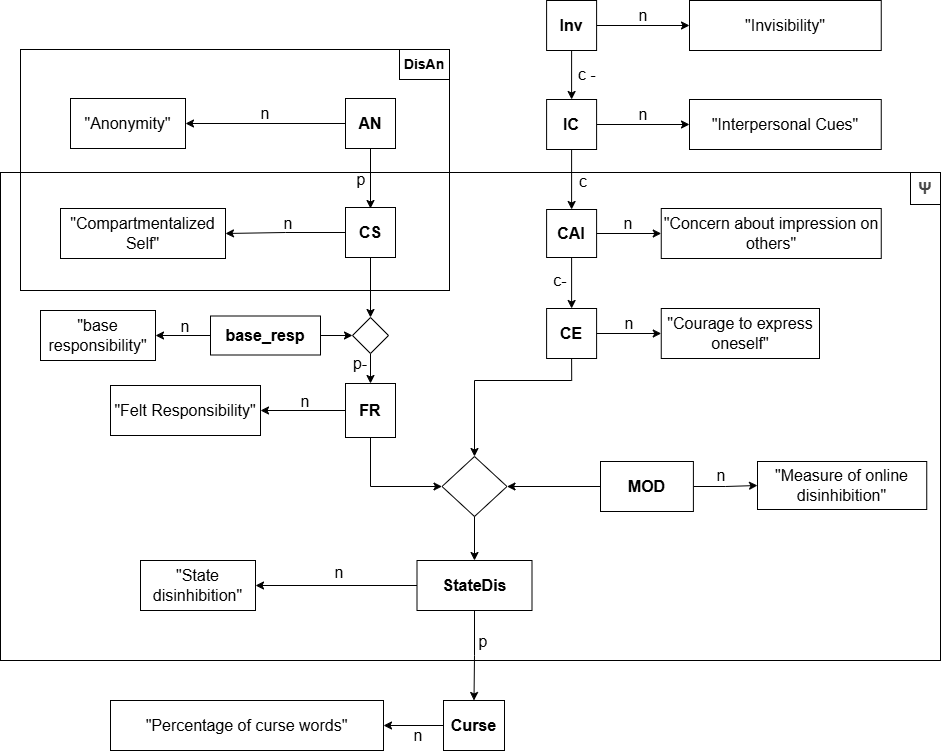
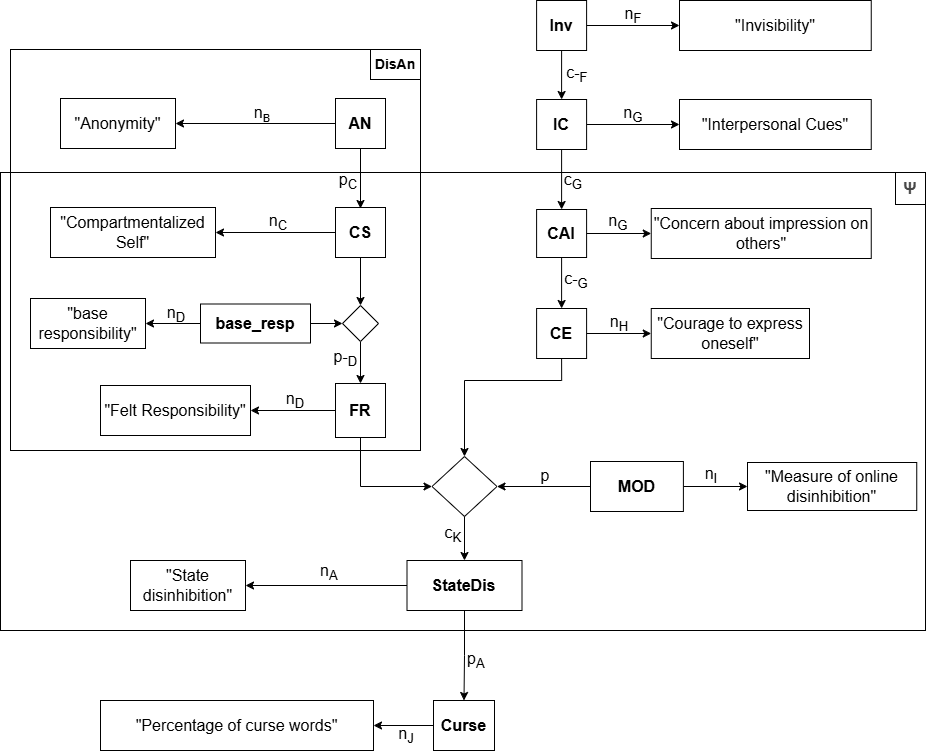
updated VAST to include IDs

diff --git a/CHANGELOG.md b/CHANGELOG.md
@@ -1,3 +1,8 @@
+## Version 0.8.1
+
+- added IDs to VAST
+
+
 ## Version 0.8.0
 
 - updated and created new plots
